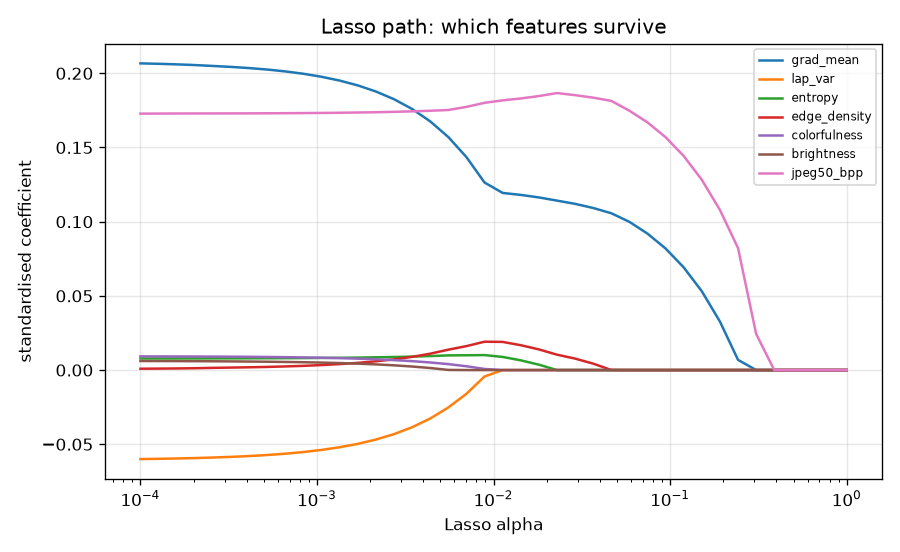
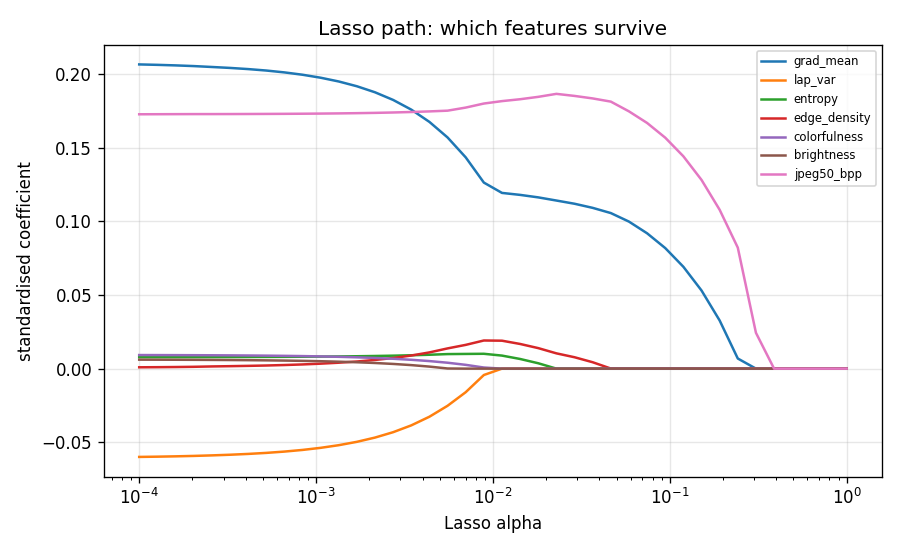
Make the size predictor robust on small images (inv_pixels, 256px crops)
JPEG header bytes add roughly 1/pixels to bpp, so models trained only on large images mispredicted 256x256 faces (R2 -4.7). Add inv_pixels/log_pixels variants, a crop stage that draws 256x256 crops from train/val images only, and a size-aware variant trained on them. Select the final model by worst-case held-out R2 across test sets so a variant that extrapolates badly cannot win. Refresh results.json and figures.

diff --git a/scripts/train_size_predictor.py b/scripts/train_size_predictor.py
@@ -2,6 +2,7 @@
 
     python scripts/train_size_predictor.py                    # features (resumable) then models
     python scripts/train_size_predictor.py --stage features
+    python scripts/train_size_predictor.py --stage crops      # 256x256 crops of train/val images (needs the raw images)
     python scripts/train_size_predictor.py --stage model
 
 Target: log(JPEG bpp at quality 10). Models: StandardScaler + {Linear, Ridge, Lasso, ElasticNet}.
@@ -19,12 +20,56 @@ import pandas as pd
 
 ROOT = Path(__file__).resolve().parents[1]
 sys.path.insert(0, str(ROOT))
-from truesight.analysis.features import FEATURES, extract_all  # noqa: E402
+from truesight.analysis.features import FEATURES, extract_all, image_features, jpeg_bpp  # noqa: E402
 
 OUT = ROOT / "experiments" / "step5_size_predictor"
+CROPS_CSV = ROOT / "data" / "processed" / "features_crops.csv"
 FIGS = ROOT / "report" / "figures"
 SKEWED = ["grad_mean", "lap_var", "edge_density"]
 ALPHAS = np.logspace(-5, 2, 36)
+
+
+def _crop_rows(args):
+    """Features + JPEG-q10 target of ``n`` random size x size crops of one image (seeded by the path)."""
+    path, role, size, n, seed = args
+    from PIL import Image
+    try:
+        img = Image.open(ROOT / path).convert("RGB")
+        rng = np.random.default_rng((seed + sum(map(ord, path))) % (2 ** 32))     # deterministic per image
+        rows = []
+        for k in range(n):
+            if img.width < size or img.height < size:
+                break
+            x0, y0 = int(rng.integers(0, img.width - size + 1)), int(rng.integers(0, img.height - size + 1))
+            c = img.crop((x0, y0, x0 + size, y0 + size))
+            r = image_features(c)
+            r["jpeg10_bpp"] = jpeg_bpp(c, 10)
+            r.update(path=f"{path}#crop{k}", role=role, dataset="crop", w=size, h=size, ok=True)
+            rows.append(r)
+        return rows
+    except Exception as e:
+        return [dict(path=path, role=role, ok=False, error=str(e))]
+
+
+def extract_crops(size=256, per_image=2, workers=3, seed=0):
+    """Small-image training rows: JPEG headers weigh far more on 256x256 files, so the size terms need small images
+    in the training data. Only train/val images are cropped (never test sets). Resumable."""
+    from concurrent.futures import ProcessPoolExecutor
+    df = pd.read_csv(ROOT / "data" / "processed" / "features.csv")
+    src = df[df.ok.astype(bool) & df.role.isin(["train", "val"])]
+    done = set()
+    if CROPS_CSV.exists():
+        old = pd.read_csv(CROPS_CSV); done = set(old.path.str.replace(r"#crop\d+$", "", regex=True))
+    else:
+        old = pd.DataFrame()
+    todo = [(p, r, size, per_image, seed) for p, r in zip(src.path, src.role) if p not in done]
+    print(f"cropping {len(todo)} images ({len(done)} cached) -> {size}x{size} x {per_image}", flush=True)
+    for i in range(0, len(todo), 300):
+        with ProcessPoolExecutor(workers, max_tasks_per_child=50) as ex:
+            rows = [r for rs in ex.map(_crop_rows, todo[i:i + 300], chunksize=4) for r in rs]
+        old = pd.concat([old, pd.DataFrame(rows)], ignore_index=True); old.to_csv(CROPS_CSV, index=False)
+        print(f"  crops {min(i + 300, len(todo))}/{len(todo)}", flush=True)
+    return old
 
 
 def make(kind, alpha=1.0, l1=0.5):
@@ -116,12 +161,19 @@ def regularisation_plot(X, y, cols):
 def main():
     warnings.filterwarnings("ignore")
     ap = argparse.ArgumentParser()
-    ap.add_argument("--stage", choices=["features", "model", "all"], default="all")
+    ap.add_argument("--stage", choices=["features", "crops", "model", "all"], default="all")
     ap.add_argument("--workers", type=int, default=3)
+    ap.add_argument("--crop-size", type=int, default=256)
+    ap.add_argument("--crops-per-image", type=int, default=2)
     a = ap.parse_args()
     if a.stage in ("features", "all"):
         extract_all(workers=a.workers)
-    if a.stage == "features":
+    if a.stage in ("crops", "all"):
+        try:
+            extract_crops(a.crop_size, a.crops_per_image, a.workers)
+        except (FileNotFoundError, OSError) as e:        # raw images not on disk: use cached crops if there are any
+            print(f"crop stage skipped ({e})", flush=True)
+    if a.stage in ("features", "crops"):
         return
     from sklearn.metrics import r2_score
     OUT.mkdir(parents=True, exist_ok=True); FIGS.mkdir(parents=True, exist_ok=True)
@@ -129,7 +181,15 @@ def main():
     df = df[df.ok.astype(bool)]
     df["y"] = np.log(df["jpeg10_bpp"])
     df["log_pixels"] = np.log(df["w"] * df["h"])       # resolution: JPEG headers weigh more on small images
+    df["inv_pixels"] = 1e5 / (df["w"] * df["h"])
     fit = df[df.role.isin(["train", "val"])]
+    crops = None
+    if CROPS_CSV.exists():                                # small-image rows for the size-aware variant only
+        crops = pd.read_csv(CROPS_CSV)
+        crops = crops[crops.ok.astype(bool)].copy()
+        crops["y"] = np.log(crops["jpeg10_bpp"]); crops["log_pixels"] = np.log(crops["w"] * crops["h"])
+        crops["inv_pixels"] = 1e5 / (crops["w"] * crops["h"])
+        print(f"crop rows for the size-aware variant: {len(crops)} ({crops.w.iloc[0]}x{crops.h.iloc[0]})", flush=True)
     tests = {r: g for r, g in df.groupby("role") if r.startswith("test_")}
     print(f"fit images (train+val): {len(fit)}; test sets: { {k: len(v) for k, v in tests.items()} }", flush=True)
     print(f"target log(JPEG q10 bpp): mean {df.y.mean():.2f}, std {df.y.std():.2f}", flush=True)
@@ -137,9 +197,14 @@ def main():
     res = {"n_fit": len(fit), "target": "log(jpeg10_bpp)", "variants": {}}
     variants = {"guide (7 raw features)": (FEATURES, False), "7 features, log1p on skewed": (FEATURES, True),
                 "without jpeg50_bpp (6 features, log1p)": ([c for c in FEATURES if c != "jpeg50_bpp"], True),
-                "7 features + log_pixels, log1p": (FEATURES + ["log_pixels"], True)}
+                "7 features + log_pixels, log1p": (FEATURES + ["log_pixels"], True),
+                # JPEG header bytes are ~constant, so they add ~1/pixels to bpp: this term fixes small images (256x256 faces)
+                "7 features + inv_pixels + log_pixels, log1p": (FEATURES + ["inv_pixels", "log_pixels"], True)}
+    if crops is not None and len(crops):
+        variants["size-aware: 7 features + inv_pixels + log_pixels + crops, log1p"] = (FEATURES + ["inv_pixels", "log_pixels"], True)
     for vname, (cols, lg) in variants.items():
-        X, y = design(fit, cols, lg), fit.y.to_numpy()
+        fit_v = pd.concat([fit, crops], ignore_index=True) if vname.startswith("size-aware") else fit
+        X, y = design(fit_v, cols, lg), fit_v.y.to_numpy()
         v = {}
         for kind in ("Linear", "Ridge", "Lasso", "ElasticNet"):
             mu, sd = nested_cv(X, y, kind)
@@ -162,6 +227,13 @@ def main():
     best_name = max(res["variants"]["guide (7 raw features)"], key=lambda k: res["variants"]["guide (7 raw features)"][k]["cv_r2_mean"])
     res["best_guide_model"] = {"name": best_name, **{k: res["variants"]["guide (7 raw features)"][best_name][k] for k in ("cv_r2_mean", "cv_r2_std")}}
     res["target_r2_ge_0.6"] = res["best_guide_model"]["cv_r2_mean"] >= 0.6
+    # Robust choice across ALL variants: the model whose WORST held-out R2 over the test sets is highest (a model that
+    # explodes on one set, e.g. Linear + inv_pixels on 256x256 faces, can never win this).
+    cand = [(min(m["heldout_test_r2"].values()), vn, k, m) for vn, v in res["variants"].items() for k, m in v.items()]
+    worst, vn, k, m = max(cand, key=lambda t: t[0])
+    res["best_overall_model"] = {"variant": vn, "name": k, "worst_heldout_r2": round(worst, 4), "cv_r2_mean": m["cv_r2_mean"],
+                                 "heldout_test_r2": m["heldout_test_r2"], "selection": "max over (variant, model) of min held-out R2"}
+    print("best overall (max-min held-out R2):", res["best_overall_model"], flush=True)
     lasso = res["variants"]["guide (7 raw features)"]["Lasso"]["coefficients"]
     res["lasso_surviving_features"] = {k: v for k, v in lasso.items() if abs(v) > 1e-6}
     (OUT / "results.json").write_text(json.dumps(res, indent=2))
